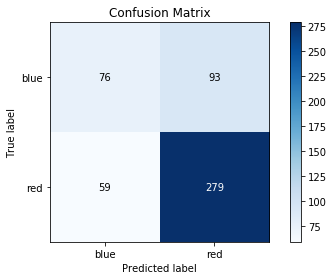
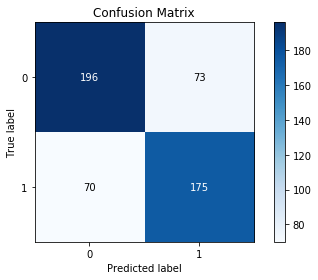
Readme updates

diff --git a/README.md b/README.md
@@ -5,7 +5,7 @@
 
 ![UFC app](https://github.com/WarrierRajeev/UFC-Predictions/blob/master/ufc-app.png)
 
-- GO to https://ufc-predictions.herokuapp.com/
+- Go to https://ufc-predictions.herokuapp.com/
 - Select weight-class of the bout
 - Select Number of 5 minute rounds the fight is scheduled for
 - Select if the fight is a title fight or not
@@ -22,13 +22,13 @@
 
 ### Results
 
-- Accuracy (Test): 0.7001
-- AUC Score (Test): 0.7220
+- Accuracy (valid): 0.7218
+- AUC Score (valid): 0.7763
 
 ![Confusion Matrix](https://github.com/WarrierRajeev/UFC-Predictions/blob/master/conf-matrix.png)
 
-- **Blue**: Fighter in the blue corner
-- **Red**: Fighter in the red corner
+- `0` corresponds to **Blue**: Fighter in the blue corner
+- `1` corresponds to **Red**: Fighter in the red corner
 
 - Generally the underdog is in the blue corner and favourite fighter is in the red corner.
 - The model is therefore (understandably) having a hard time figuring out when the underdog wins. This is because the sport is very volatile and there can be anything from an injury, psychological loss/trauma to just pure luck that determine the winner.
@@ -93,9 +93,8 @@ Here are some column definitions:
 - `win_by_Submission` is the number of wins by submission in the fighter's ufc career
 - `win_by_TKO_Doctor_Stoppage` is the number of wins by doctor stoppage in the fighter's ufc career
 
-### How to use?
+### How to use from Scratch?
 
-#### From Scratch
 - Clear out the data folder and simply run `scrape_all_data.py` (Note: This will scrape everything from the beginning and hence will take a long time.)
 - Run `EDA_and_preprocessing-1.ipynb` and after that `EDA_and_preprocessing-2b.ipynb` (`EDA_and_preprocessing-2a.ipynb` is an alternative where the rows with missing stat values are removed and not treated.)
 
